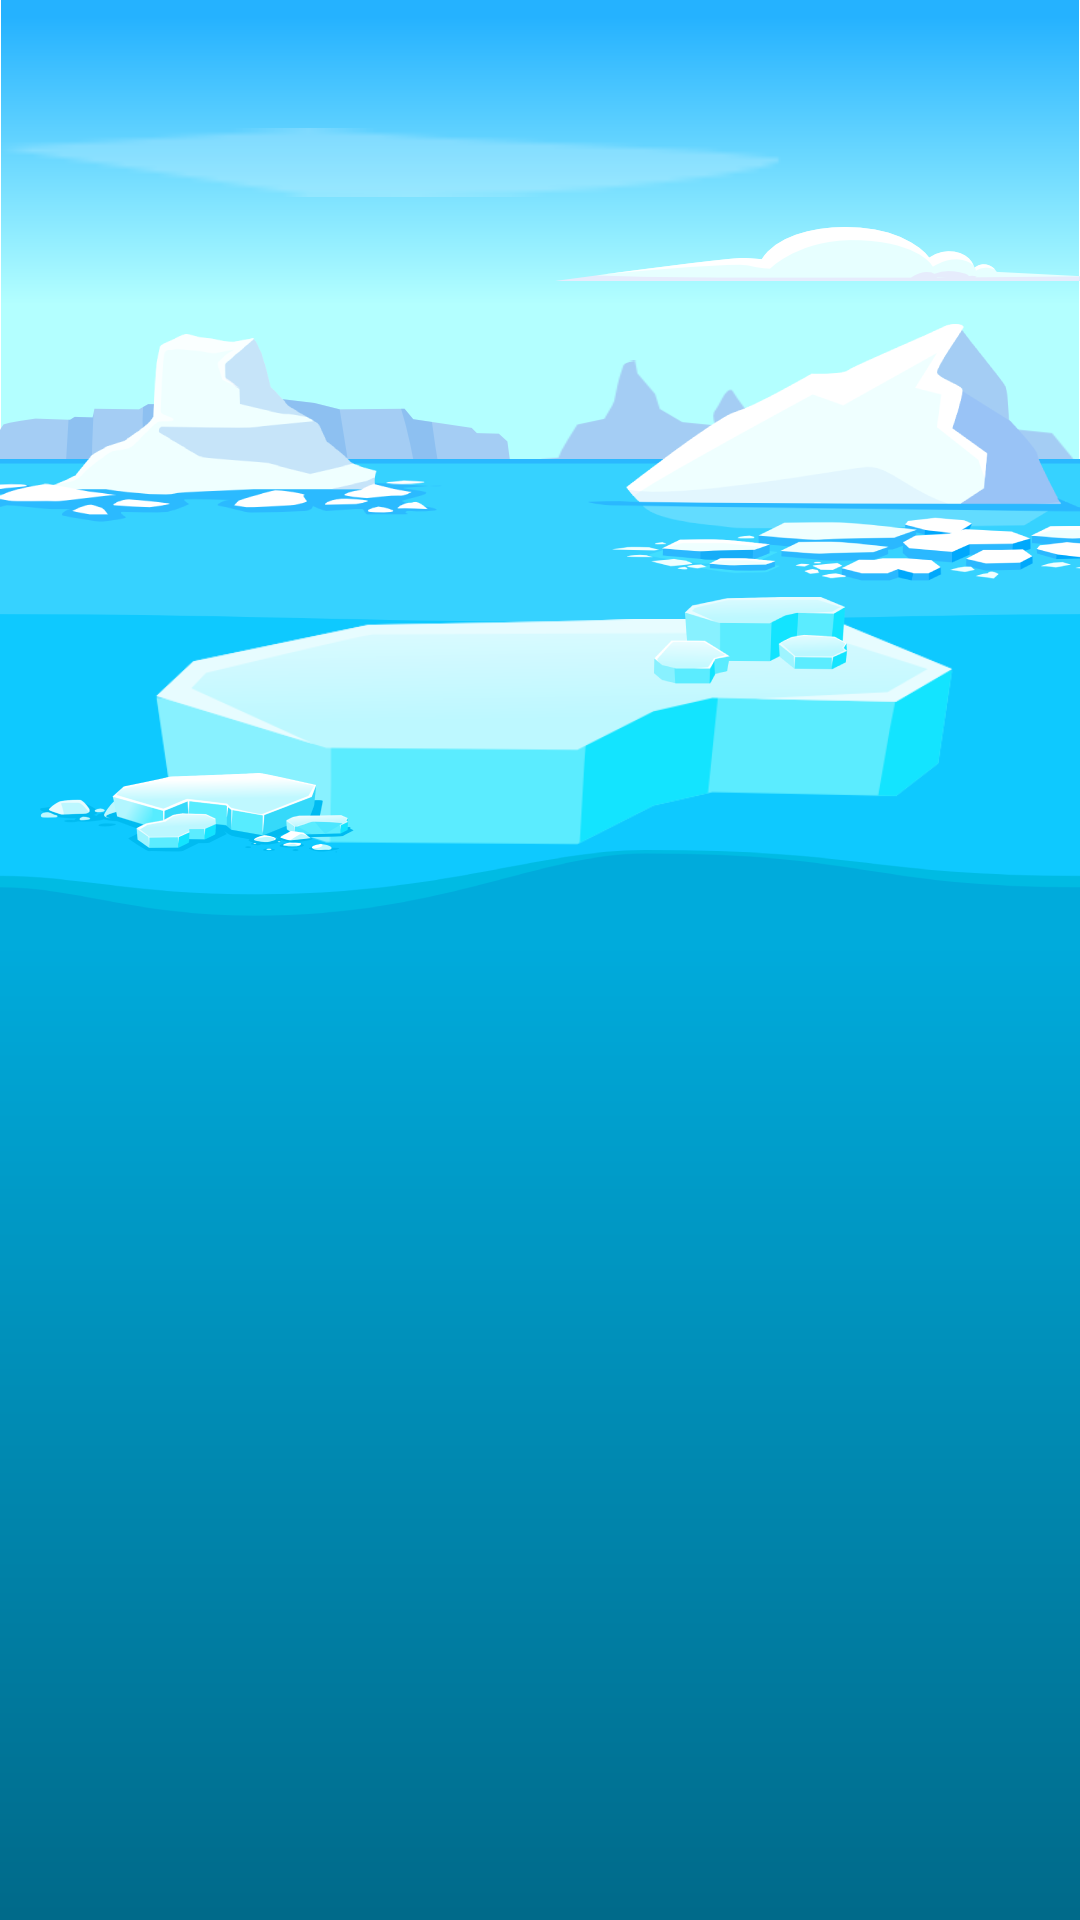
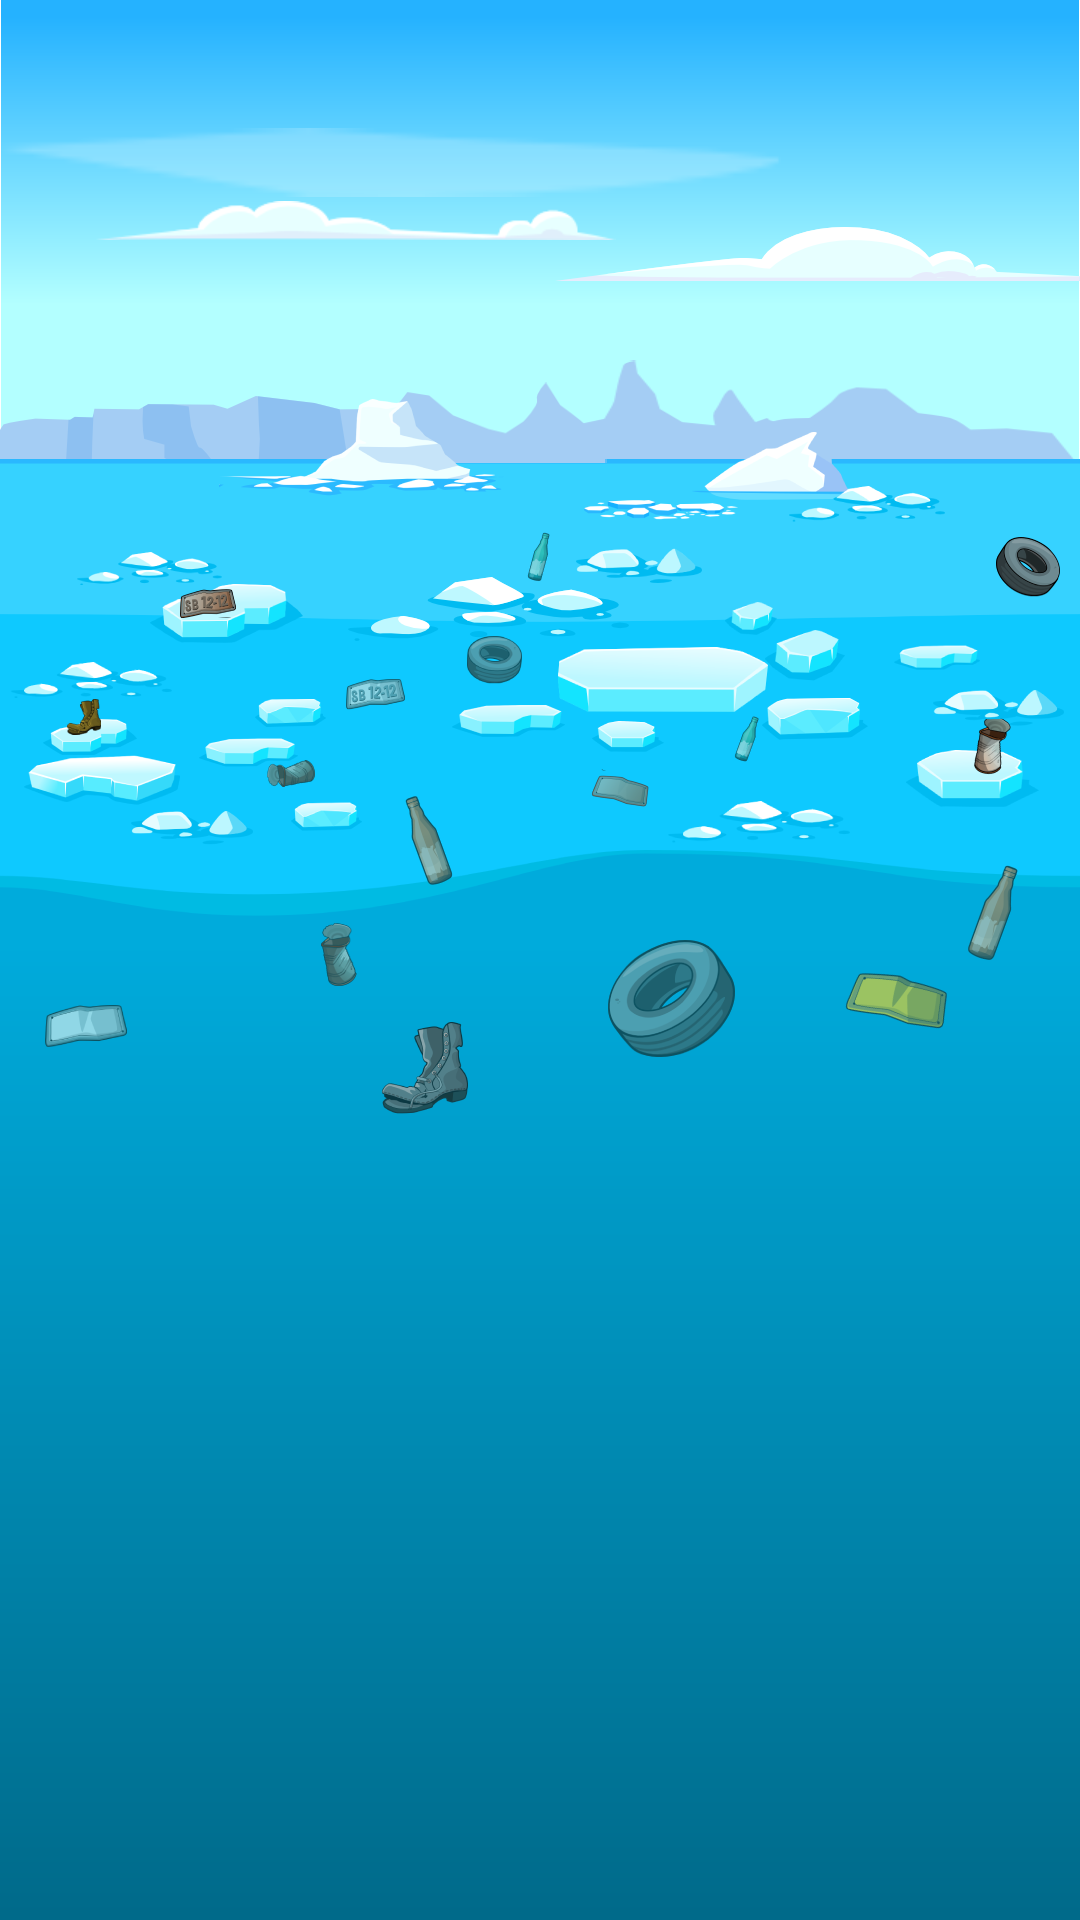
Add in background assets + dynamic parsing for background assets + emoji face

diff --git a/draftapp/lib/screens/game_environment.dart b/draftapp/lib/screens/game_environment.dart
@@ -160,7 +160,47 @@ class _BodyState extends State<_Body> {
     {"image": 'assets/Background2.png'},
     {"image": 'assets/Background3.png'},
     {"image": 'assets/Background4.png'},
+    {"image": 'assets/Background5.png'},
+    {"image": 'assets/Background6.png'},
+    {"image": 'assets/Background7.png'},
+    {"image": 'assets/Background8.png'},
+    {"image": 'assets/Background9.png'},
+    {"image": 'assets/Background10.png'},
+    {"image": 'assets/Background11.png'},
+    {"image": 'assets/Background12.png'},
+    {"image": 'assets/Background13.png'},
+    {"image": 'assets/Background14.png'},
+    {"image": 'assets/Background15.png'},
+    {"image": 'assets/Background16.png'},
+    {"image": 'assets/Background17.png'},
+    {"image": 'assets/Background18.png'},
+    {"image": 'assets/Background19.png'},
     {"image": 'assets/Background20.png'},
+    {"image": 'assets/Background20.png'},
+  ];
+
+  var bear = [
+    {"emotion": 'assets/polarbear_worst.png'},
+    {"emotion": 'assets/polarbear_worst.png'},
+    {"emotion": 'assets/polarbear_worst.png'},
+    {"emotion": 'assets/polarbear_worst.png'},
+    {"emotion": 'assets/polarbear_worst.png'},
+    {"emotion": 'assets/polarbear_worst.png'},
+    {"emotion": 'assets/polarbear_depressed.png'},
+    {"emotion": 'assets/polarbear_depressed.png'},
+    {"emotion": 'assets/polarbear_depressed.png'},
+    {"emotion": 'assets/polarbear_depressed.png'},
+    {"emotion": 'assets/polarbear_depressed.png'},
+    {"emotion": 'assets/polarbear_sad.png'},
+    {"emotion": 'assets/polarbear_sad.png'},
+    {"emotion": 'assets/polarbear_sad.png'},
+    {"emotion": 'assets/polarbear_sad.png'},
+    {"emotion": 'assets/polarbear_sad.png'},
+    {"emotion": 'assets/polarbear_happy.png'},
+    {"emotion": 'assets/polarbear_happy.png'},
+    {"emotion": 'assets/polarbear_happy.png'},
+    {"emotion": 'assets/polarbear_happy.png'},
+    {"emotion": 'assets/polarbear_happy.png'},
   ];
   @override
   Widget build(BuildContext context) {
@@ -185,7 +225,7 @@ class _BodyState extends State<_Body> {
                           width: 100,
                           child: const Image(image: AssetImage('assets/polarBear.png'),),
                         ),
-                      )
+                      ),
                     ],
                   ),
                 ],
@@ -208,11 +248,22 @@ class _BodyState extends State<_Body> {
                 crossAxisAlignment: CrossAxisAlignment.start,
                 children: <Widget>[
                   Padding(
-                      padding: const EdgeInsets.fromLTRB(35, 18, 0, 0),
+                      padding: const EdgeInsets.fromLTRB(35, 5, 0, 2),
                       child: Row(
                         // crossAxisAlignment: CrossAxisAlignment.start,
                         mainAxisAlignment: MainAxisAlignment.start,
                         children: <Widget>[
+                          CircleAvatar(
+                            radius: 32,
+                            backgroundImage: AssetImage(bear[backgroundIndex]["emotion"].toString()),
+                          ),
+                          const SizedBox(width: 7,),
+                          const Text(
+                            'A CutePolarBear',
+                            style: TextStyle(fontWeight: FontWeight.bold, fontSize: 20,
+                            ),
+                          ),
+                          const SizedBox(width: 5,),
                           GestureDetector(
                             onTap: () {
                               setState(() {
@@ -222,6 +273,7 @@ class _BodyState extends State<_Body> {
                                 cleanliness = cleanliness+4;
                                 survivability = survivability+4;
                                 backgroundIndex ++;
+                                print(backgroundIndex);
                               });
                             },
                             child: const Icon(
@@ -229,13 +281,7 @@ class _BodyState extends State<_Body> {
                               color: Colors.lightBlueAccent,
                             ),
                           ),
-                          const SizedBox(width: 7,),
-                          const Text(
-                            'A CutePolarBear',
-                            style: TextStyle(fontWeight: FontWeight.bold, fontSize: 20,
-                            ),
-                          ),
-                          const SizedBox(width: 85,),
+                          const SizedBox(width: 20,),
                           IconButton(
                             onPressed: () {
                               showDialog(
@@ -338,7 +384,7 @@ class _BodyState extends State<_Body> {
                   ),
 
                   const Padding(
-                    padding: EdgeInsets.fromLTRB(15, 30, 0, 0),
+                    padding: EdgeInsets.fromLTRB(15, 20, 0, 0),
                     child: Text(
                       'The Environment',
                       style: TextStyle(
@@ -454,13 +500,22 @@ class _BodyState extends State<_Body> {
                         ],
                       )
                   ),
-                  SizedBox(
-                    width: double.infinity,
-                    child: IconButton(
-                    onPressed: () {Navigator.of(context).push(_todoListRoute());},
-                    iconSize: 52,
-                    color: Colors.black,
-                    icon: const Icon(Icons.expand_less_sharp),
+                  Padding(
+                      padding: const EdgeInsets.fromLTRB(0, 0, 0, 0),
+                    child: SizedBox(
+                        width: double.infinity,
+                        child: Column(
+                          crossAxisAlignment: CrossAxisAlignment.center,
+                          children: [
+                            IconButton(
+                              onPressed: () {Navigator.of(context).push(_todoListRoute());},
+                              iconSize: 52,
+                              color: Colors.black,
+                              icon: const Icon(Icons.expand_less_sharp),
+                            ),
+                            const Text("Daily tasks")
+                          ],
+                        )
                     ),
                   )
                 ],
